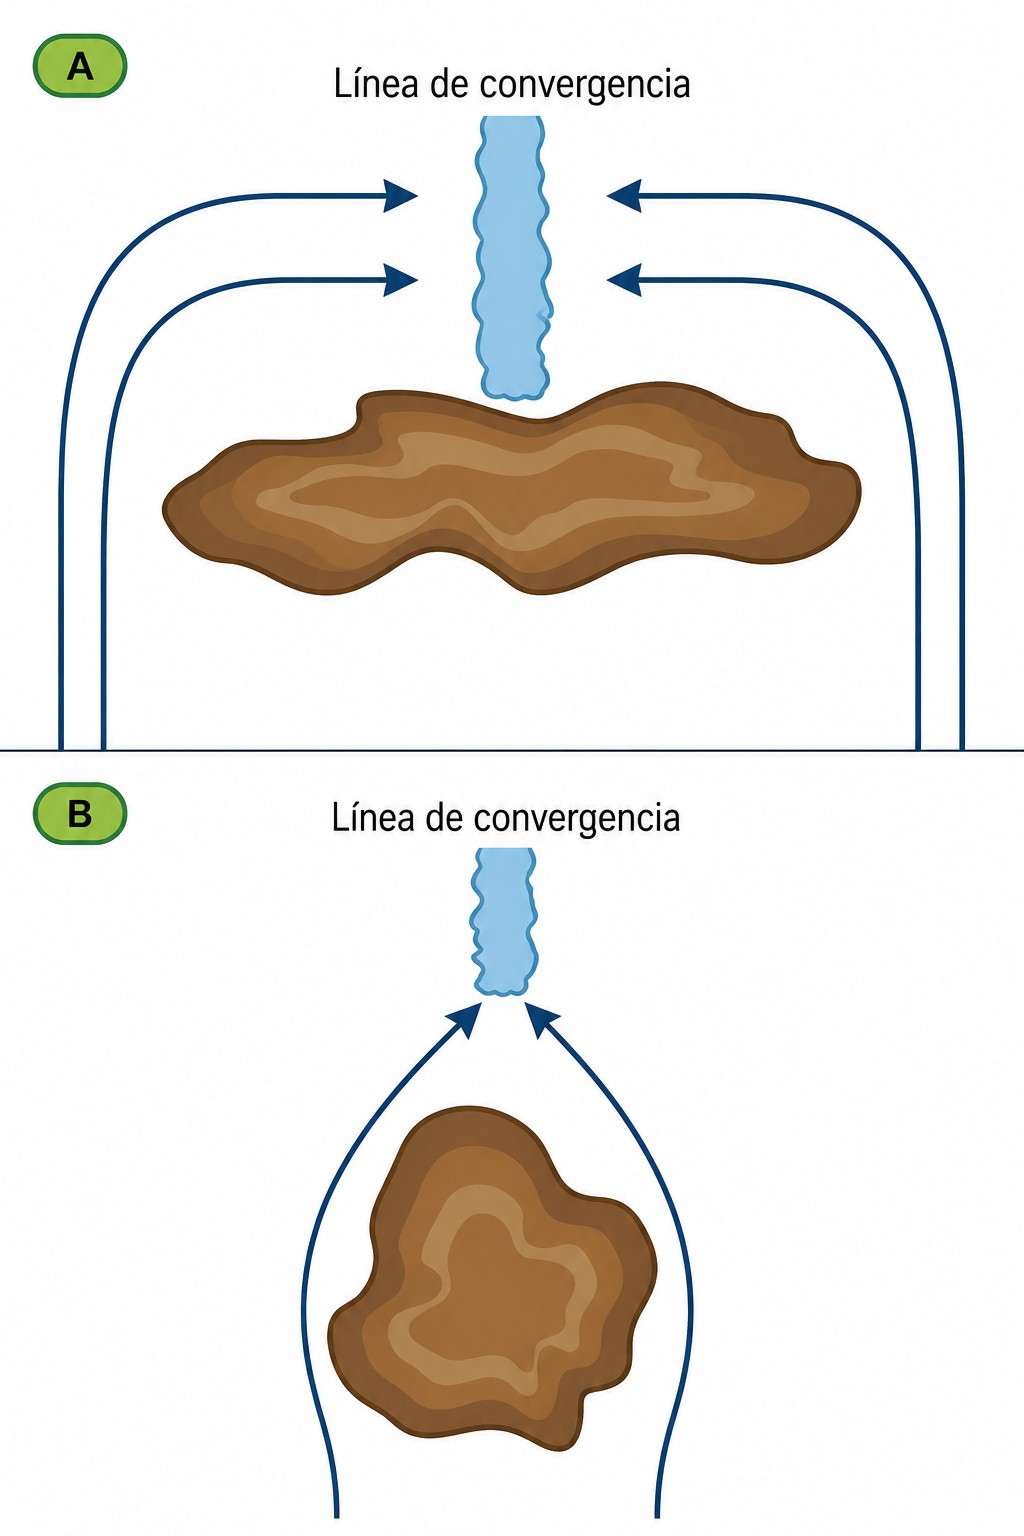
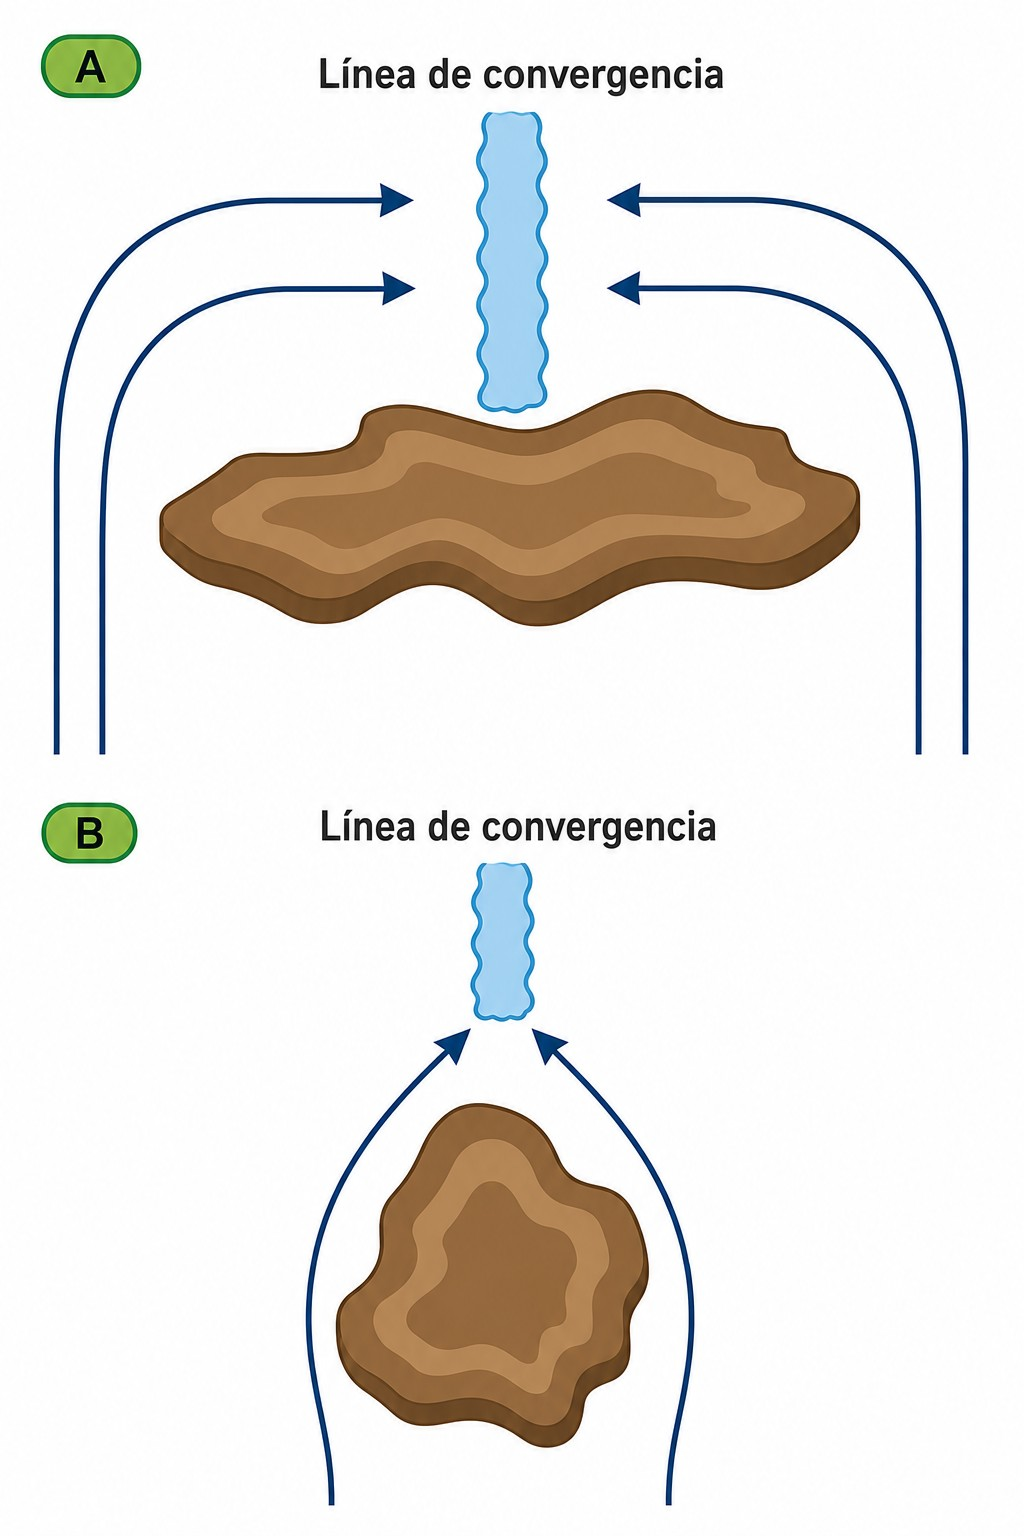
feat(03-meteorologia): sustituir el mockup del ciclo de tormenta
La figura de cap09 era un boceto provisional con «MOCKUP — ToDo: crear
ilustración final» impreso dentro, y se publicó así en varias versiones. La
definitiva desarrolla las fases de cúmulo, desarrollo, madurez y disipación con
las corrientes, la isoterma de 0 °C, dónde hay gotas, nieve y hielo, el tipo de
precipitación de cada fase y la escala de 0 a 30 min. Todo eso ya lo decía el
texto del apartado: lo que faltaba era la figura que lo sostuviera.

De paso, dos retoques que no cambian nada de lo que se enseña: la nube de la
cizalladura pasa de contorno esquemático a cúmulo con volumen, y la
convergencia topográfica pierde la línea que partía el cuadro entre los paneles
A y B, que separaba dos vistas del mismo fenómeno como si fueran dos figuras.

diff --git a/03-meteorologia/CHANGELOG-03.md b/03-meteorologia/CHANGELOG-03.md
@@ -16,8 +16,16 @@ rompe la compilación.
 
 ## [En curso]
 
+**Qué releer:** **cap09, ciclo de vida de la célula tormentosa.** La figura que acompaña al apartado era un boceto provisional —llevaba impreso «MOCKUP — ToDo: crear ilustración final»— y se ha publicado así en varias versiones. Ya es una ilustración de verdad. El texto de las tres fases no cambia; lo que cambia es que ahora la figura lo sostiene.
+
+### Añadido
+
+* **cap09, ciclo de la tormenta** — la ilustración definitiva desarrolla las fases de cúmulo, desarrollo, madurez y disipación, con las corrientes ascendente y descendente, la isoterma de 0 °C, dónde hay gotas, nieve y hielo, el tipo de precipitación de cada fase y la escala de tiempo (0 a 30 min aprox.). Todo ello ya estaba en el cuerpo del apartado.
+
 ### Maqueta y producción
 
+* **cap09, cizalladura** — la nube pasa de contorno esquemático a cúmulo con volumen, y las flechas de flujo ascendente interno del ámbar al rojo. Las tres viñetas y la leyenda no cambian.
+* **cap02, convergencia topográfica** — se retira la línea horizontal que partía el cuadro entre los paneles A y B: separaba dos vistas del mismo fenómeno como si fueran figuras distintas.
 * **Glosario** — las dos velocidades V de la entrada de IAS se escriben ya con subíndice (`V~NE~`, `V~A~`), como las componen CS-22 y 14 CFR §1.2 y como estaban en el resto de la colección. No cambia ningún dato.
 
 ## [1.0-rc.11] — 28 de julio de 2026
